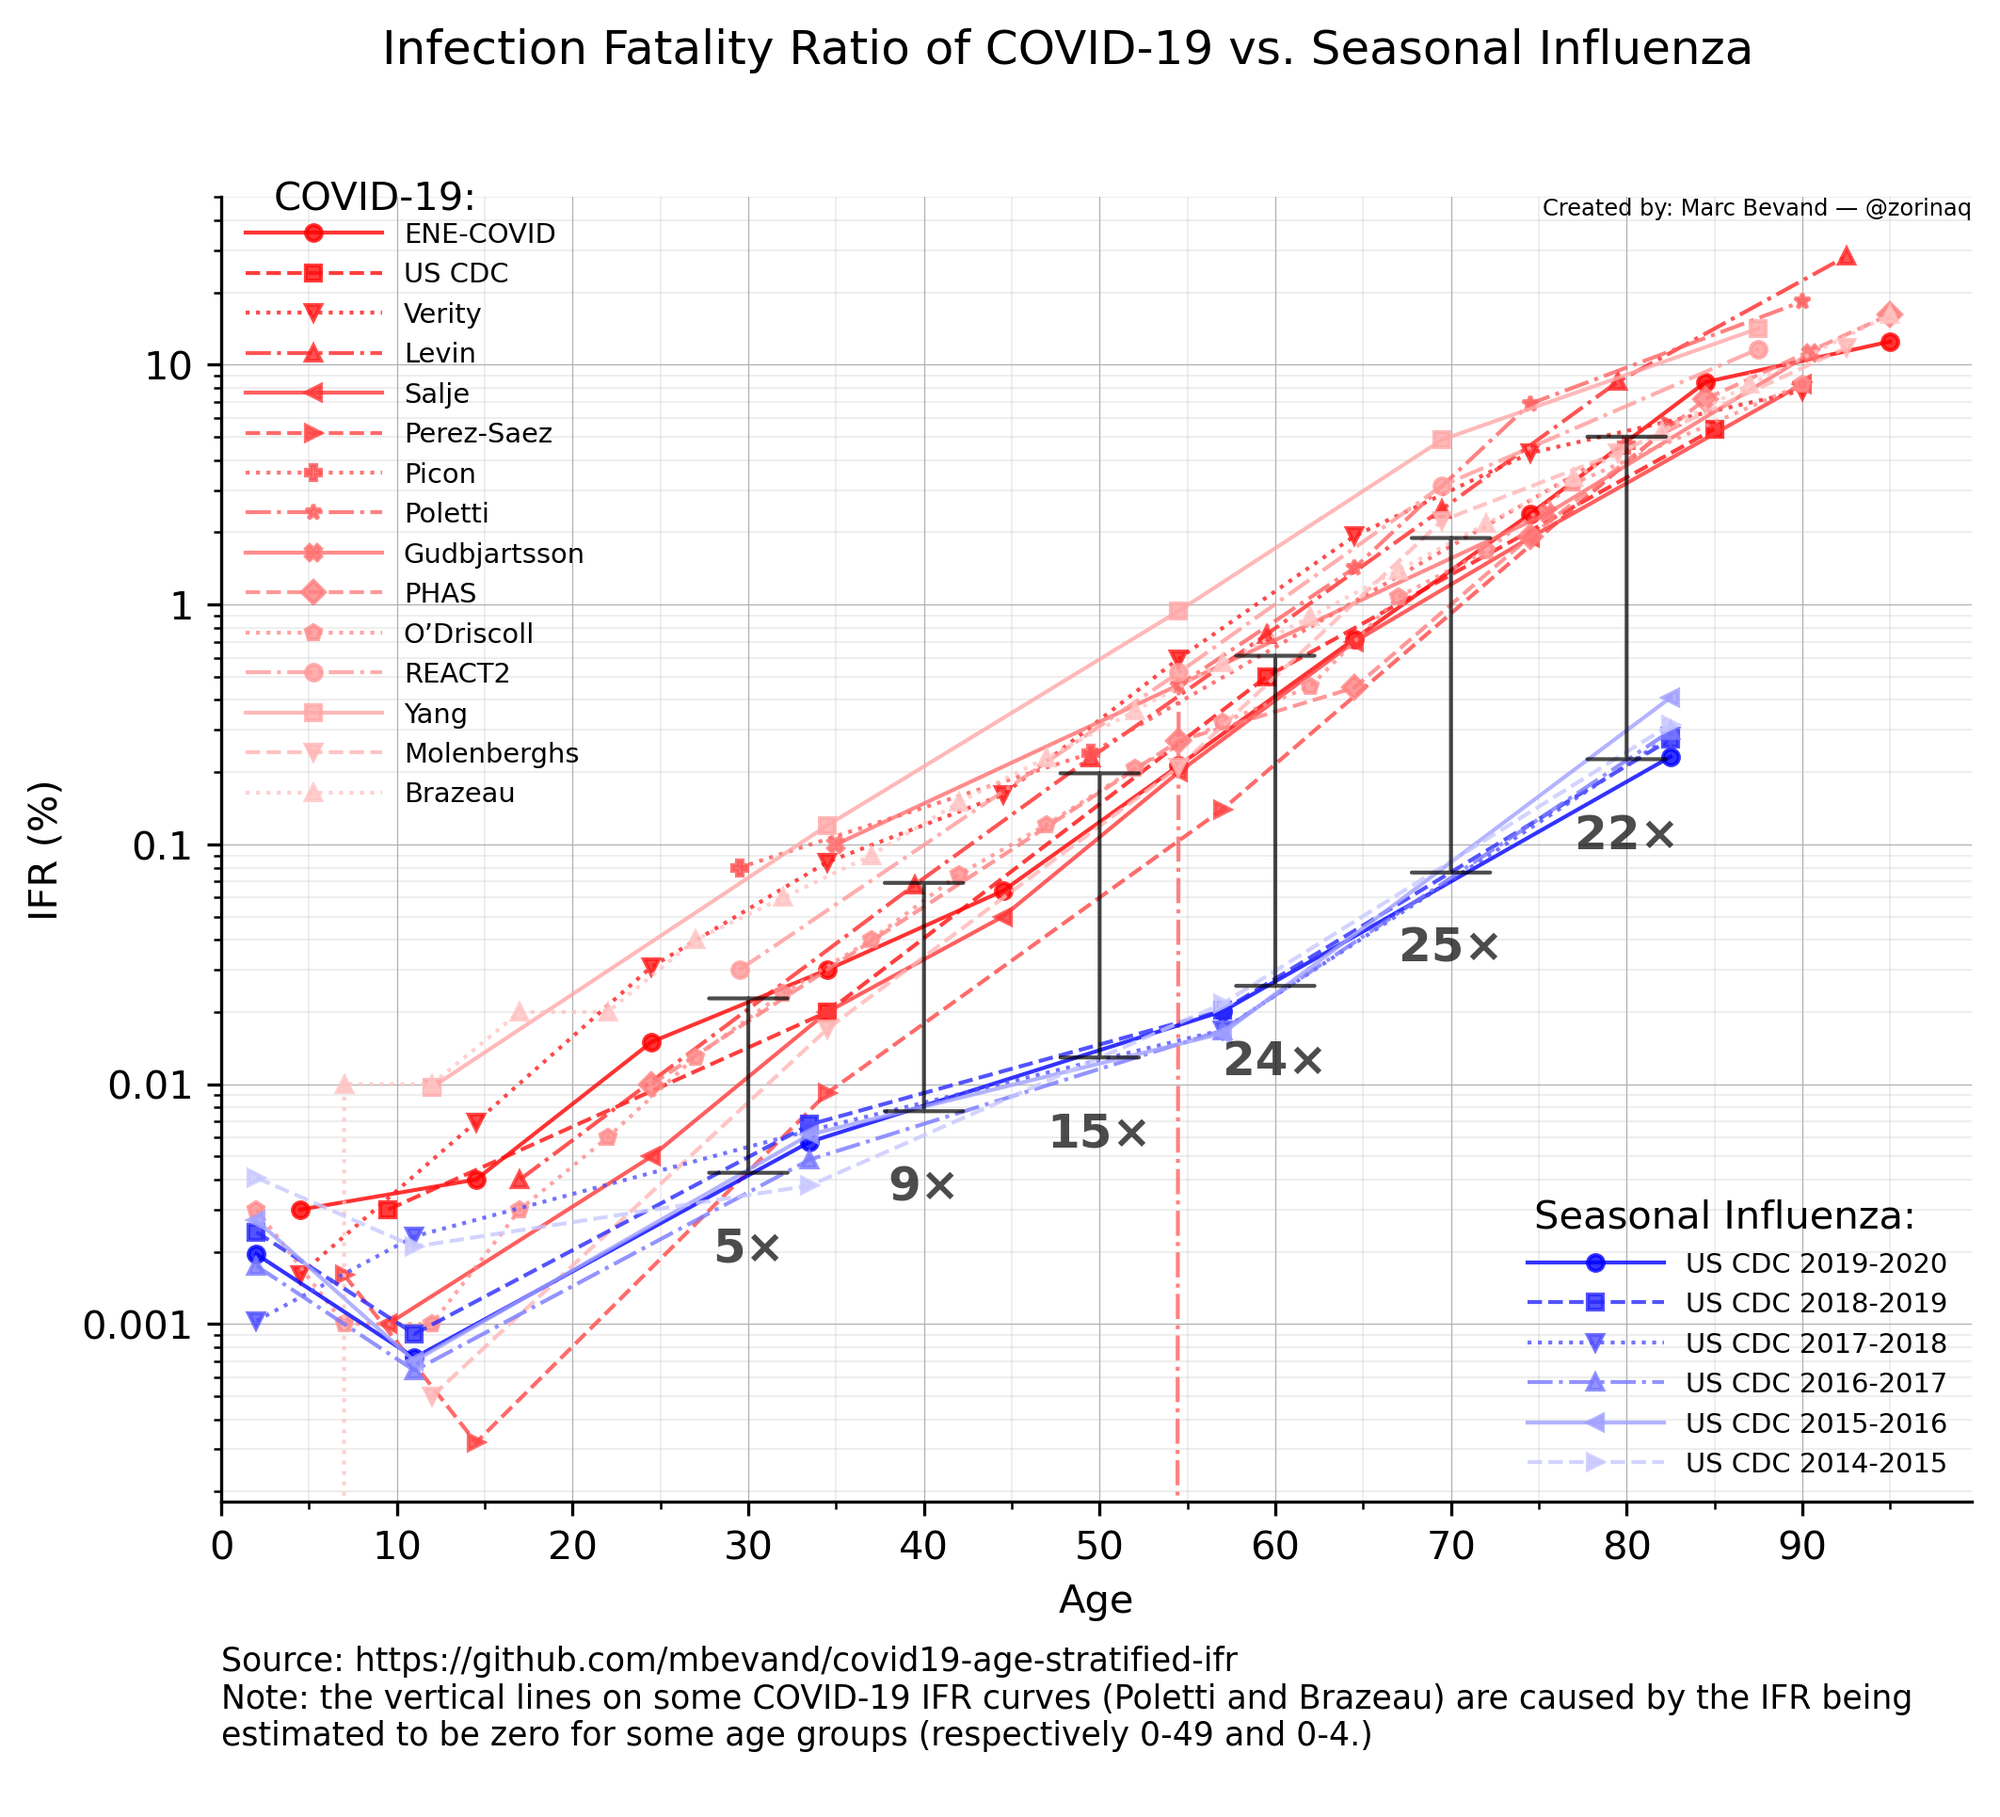
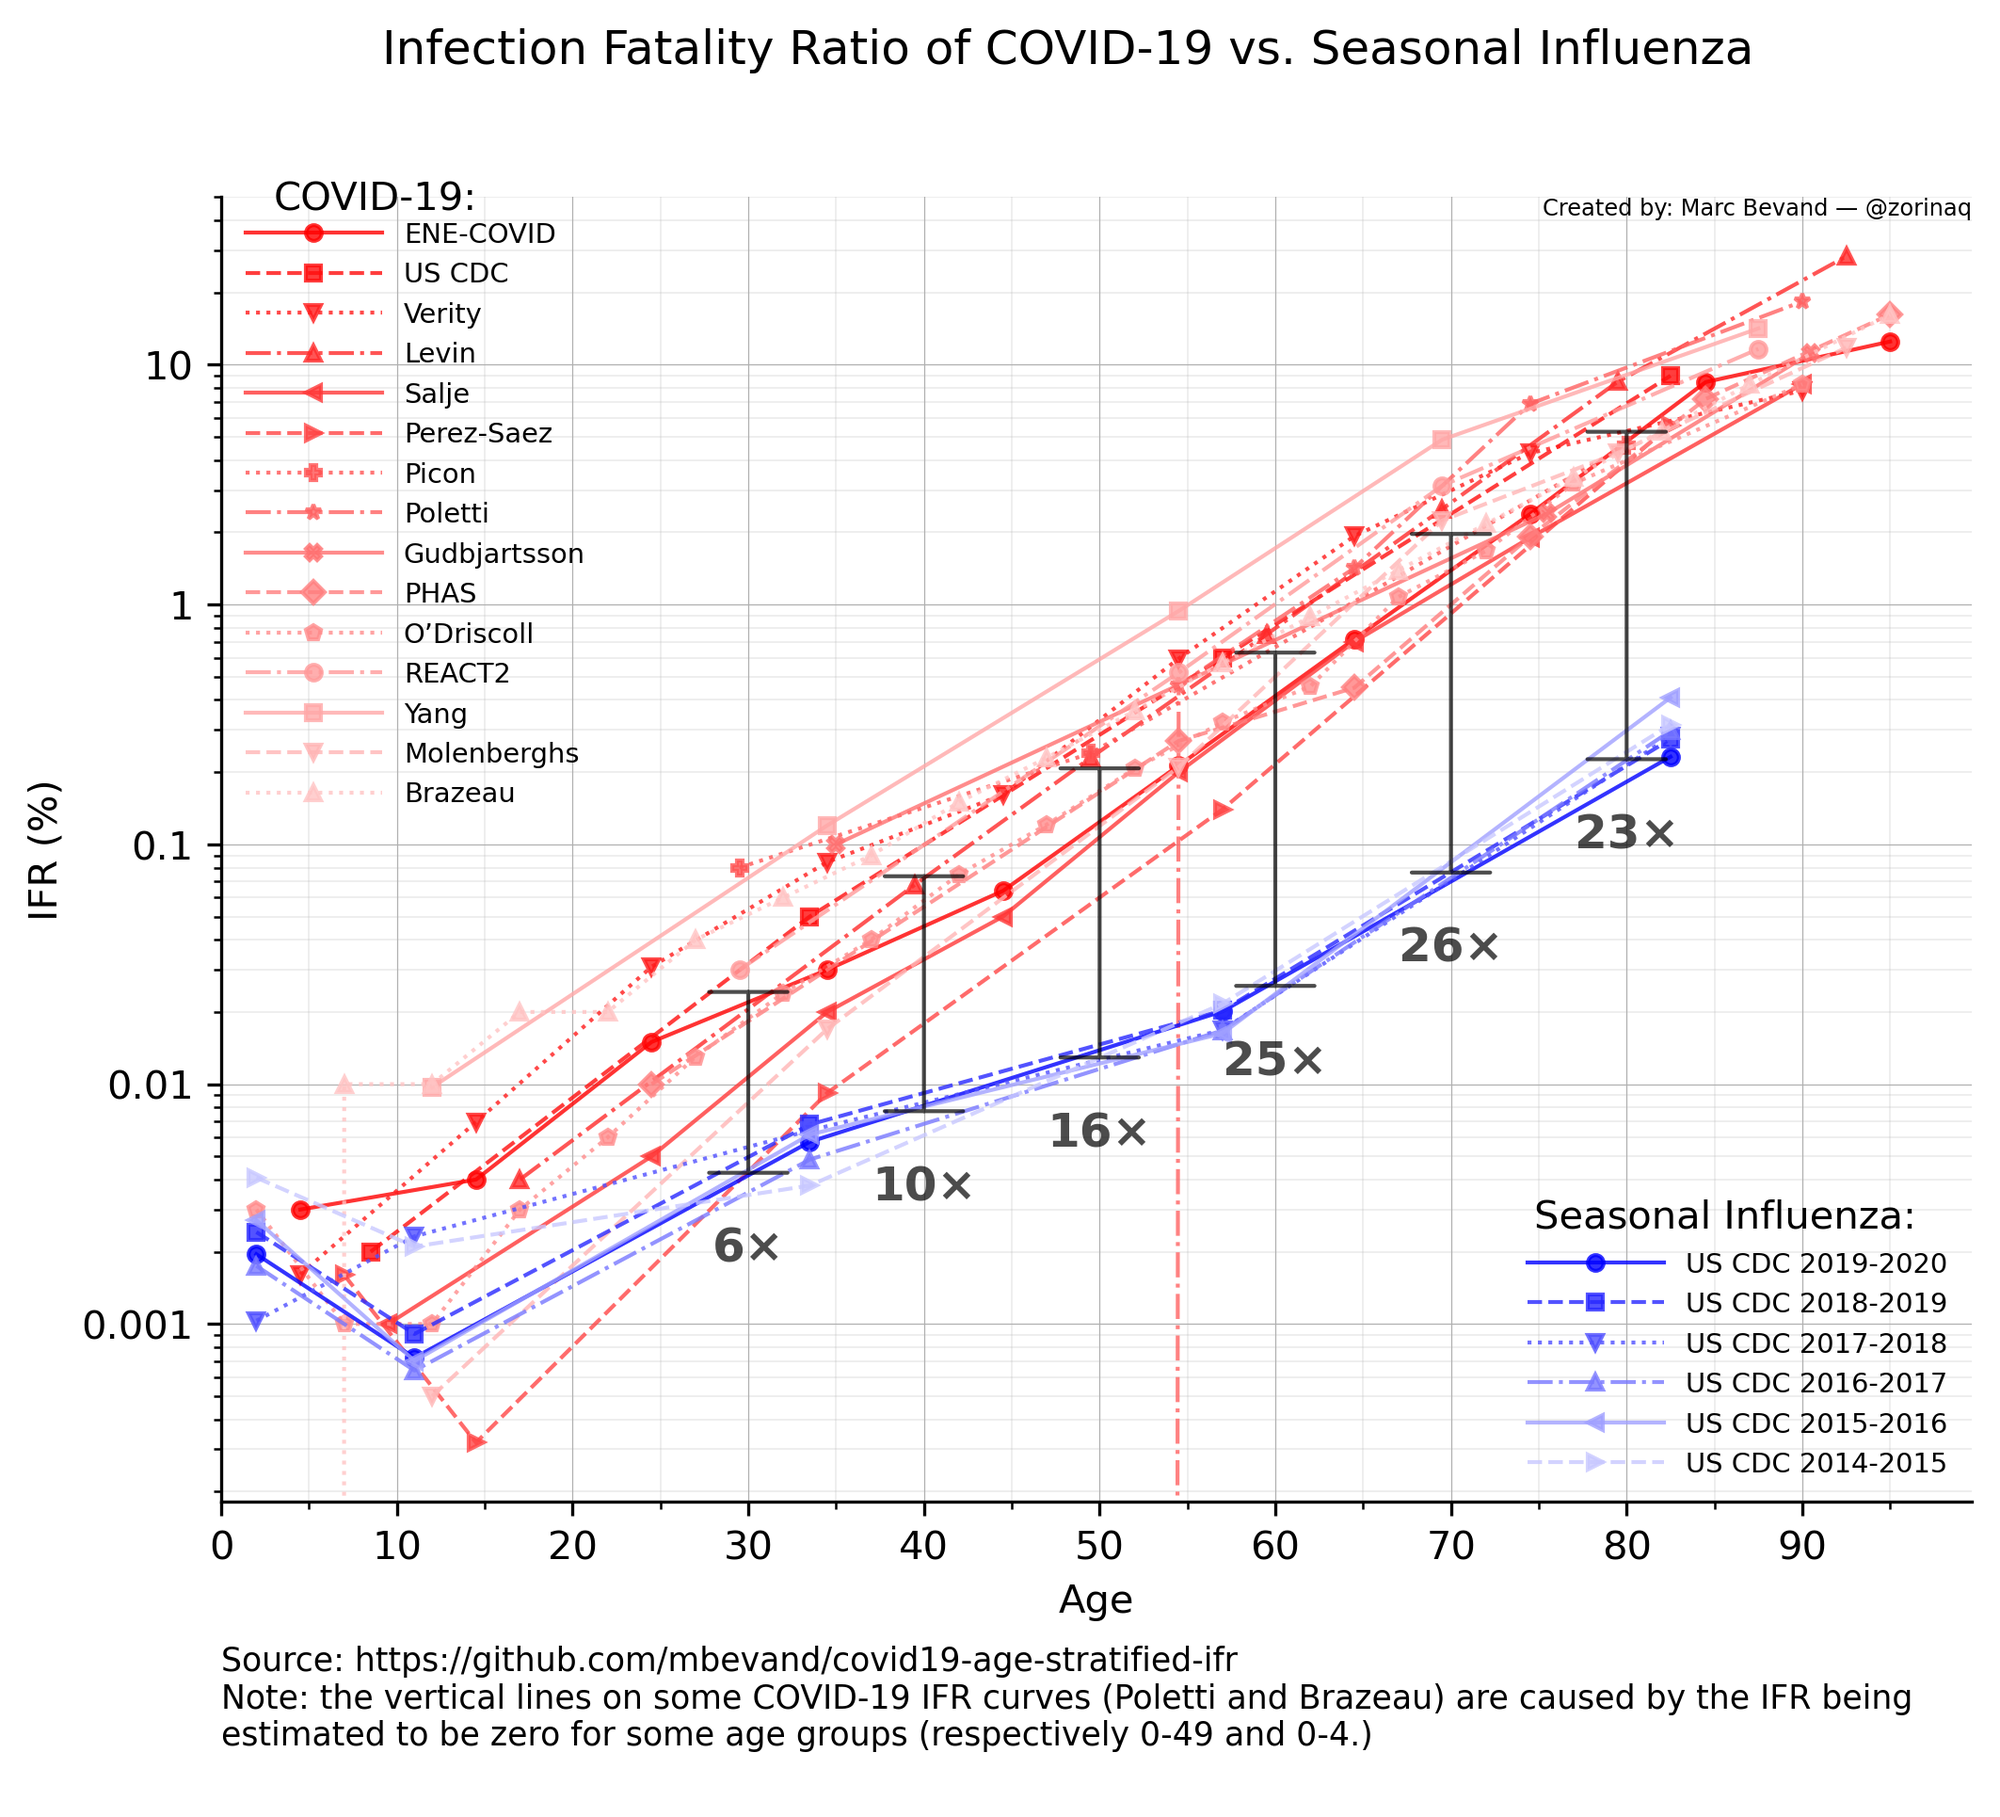
update US CDC covid IFR estimate

diff --git a/apply_ifr.py b/apply_ifr.py
@@ -43,14 +43,14 @@ ifrs = [
             (90,maxage): 12.497,
         }),
 
-        # US CDC estimate as of 10 Sep 2020
+        # US CDC estimate as of 19 Mar 2021
         # https://www.cdc.gov/coronavirus/2019-ncov/hcp/planning-scenarios.html
         # (table 1)
         ('COVID: US CDC', {
-            (0,19):   0.003,
-            (20,49):  0.02,
-            (50,69):  0.5,
-            (70,maxage): 5.4,
+            (0,17):   0.002,
+            (18,49):  0.05,
+            (50,64):  0.6,
+            (65,maxage): 9.0,
         }),
 
         # Verity et al.

diff --git a/covid_vs_flu.py b/covid_vs_flu.py
@@ -29,14 +29,14 @@ ifrs_covid = [
             (90,maxage): 12.497,
         }),
 
-        # US CDC estimate as of 10 Sep 2020
+        # US CDC estimate as of 19 Mar 2021
         # https://www.cdc.gov/coronavirus/2019-ncov/hcp/planning-scenarios.html
         # (table 1)
         ('US CDC', {
-            (0,19):   0.003,
-            (20,49):  0.02,
-            (50,69):  0.5,
-            (70,maxage): 5.4,
+            (0,17):   0.002,
+            (18,49):  0.05,
+            (50,64):  0.6,
+            (65,maxage): 9.0,
         }),
 
         # Verity et al.

diff --git a/README.md b/README.md
@@ -24,8 +24,8 @@ COVID-19/influenza IFR estimates.
 The COVID-19 IFR curves represent these estimates:
 
 1. ENE-COVID Spanish serosurvey (calculated by `calc_ifr.py`, see [this section](#calculating-the-age-stratified-ifr-of-covid-19-from-the-spanish-ene-covid-study))
-1. [US CDC COVID-19 Pandemic Planning Scenarios](https://web.archive.org/web/20200911222029/https://www.cdc.gov/coronavirus/2019-ncov/hcp/planning-scenarios.html) (table 1);
-  which is based on [Estimation of SARS-CoV-2 mortality during the early stages of an epidemic: A modeling study in Hubei, China, and six regions in Europe](https://journals.plos.org/plosmedicine/article?id=10.1371/journal.pmed.1003189)
+1. [US CDC COVID-19 Pandemic Planning Scenarios](https://web.archive.org/web/20210618033213/https://www.cdc.gov/coronavirus/2019-ncov/hcp/planning-scenarios.html) (table 1);
+  which is based on Levin et al. (see ref. 4 below)
 1. [Verity et al.: Estimates of the severity of coronavirus disease 2019: a model-based analysis](https://www.thelancet.com/journals/laninf/article/PIIS1473-3099%2820%2930243-7/fulltext) (table 1)
 1. [Levin et al.: Assessing the age specificity of infection fatality rates for COVID-19: systematic review, meta-analysis, and public policy implications](https://link.springer.com/article/10.1007/s10654-020-00698-1) (table 3)
 1. [Perez-Saez et al.: Serology-informed estimates of SARS-CoV-2 infection fatality risk in Geneva, Switzerland](https://www.thelancet.com/journals/laninf/article/PIIS1473-3099(20)30584-3/fulltext)
